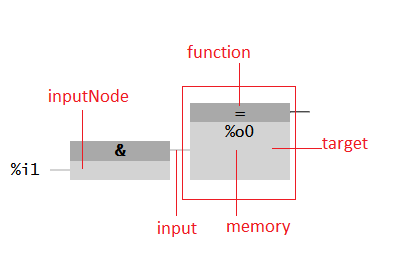
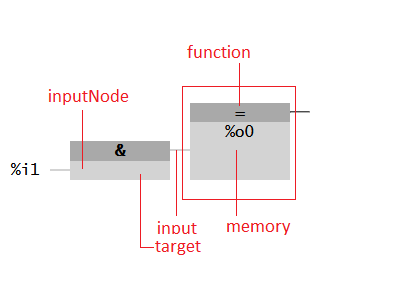
moving nodes near eachother after disconnecting from input

diff --git a/src/App.vue b/src/App.vue
@@ -166,7 +166,7 @@
   </div>
 
  <div align="left" v-if="enableEdit[statusdata.state] && projectdata.length < 1">
-    <FunctionList
+   <FunctionList
       @selected="
 	    pushProjectAndVariablesToUndoStack();
         addChild(Date.now(), networkId + 1, null, $event);
@@ -658,7 +658,7 @@ onMounted(() => {
   //getVariableDataFromFlask();
   getProjectData();
 
-  buildListing(projectdata.value);
+  //buildListing(projectdata.value);
   
   setTimeout(() => pushProjectAndVariablesToUndoStack(), 100);
   window.addEventListener('message', receiveMessage)	
@@ -736,6 +736,13 @@ const addChild = (id, networkId, parentInput, blockJson) => {
 
   putProjectData();
 };
+
+const cloneNode = (node) => {
+	var cn = JSON.parse(JSON.stringify(node));
+	cn.id = Date.now()
+	return cn;
+};
+
 const addInput = (nodeId, inputDef, idOffset = 0) => {
   // var inputJson = JSON.parse(input /*? input : '{"name":"", "type":"none"}'*/);
   let found = projectdata.value.filter((item) => item.id === nodeId);
@@ -773,24 +780,47 @@ const connectNodeToInput = (nodeId, inputId) => {
   putProjectData();
 };
 
+const array_move = (arr, old_index, new_index) => {
+	if(new_index >= arr.length) {
+		var k = new_index - arr.length + 1;
+		while(k--){
+			arr.push(undefined);
+		}
+	}
+	arr.splice(new_index, 0, arr.splice(old_index, 1)[0]);
+	return arr;
+}
+
+//returns [2,1,3]
+//console.log(array_move([1,2,3],0,1)
+
 const disconnectNodeFromInput = (nodeId, inputId) => {
   //alert(nodeId + ", " + inputId);
   var isInputOnly = false;
-  projectdata.value.forEach((node) => {
+  var index_from = -1;
+  var index_to = -1;
+  projectdata.value.forEach((node, index) => {
     if (node.id === nodeId) {
       node.parentInput = null;
+	  
       if (node.input_only === true) {
         deleteChild(node.id);
-      }
+	  }else{
+		  index_from = index;
+	  }
     }
     if (node.inputs) {
       node.inputs.forEach((input) => {
         if (input.id === inputId) {
+		  index_to = index;
           input.target = -1;
         }
       });
     }
   });
+  //console.log("index_from: " + index_from + ", index_to: " + index_to);
+  if(index_from > 0 && index_to > 0)
+	array_move(projectdata.value, index_from, index_to);
   putProjectData();
 };
 
